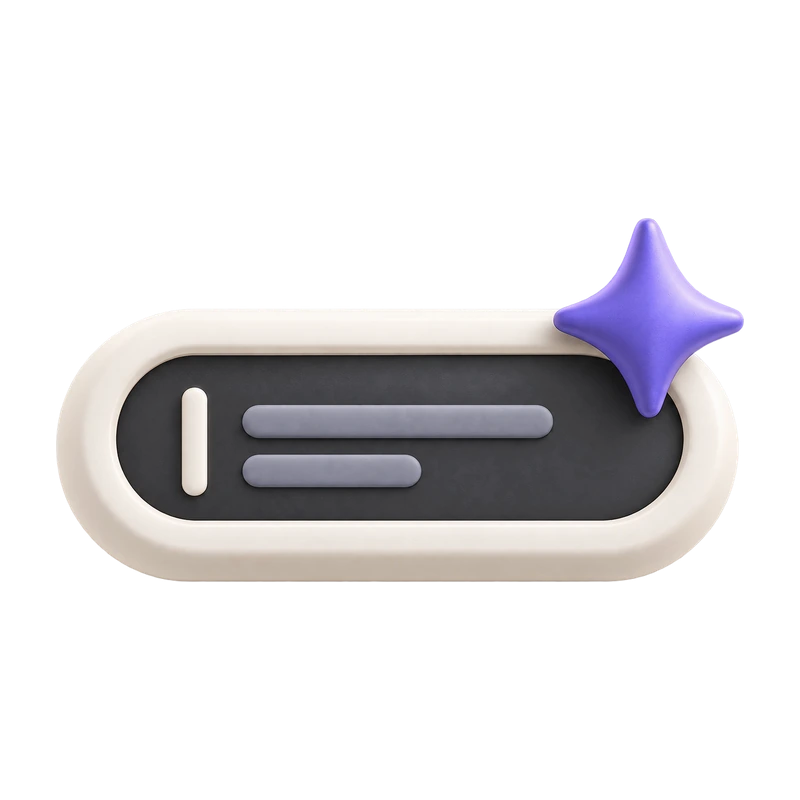
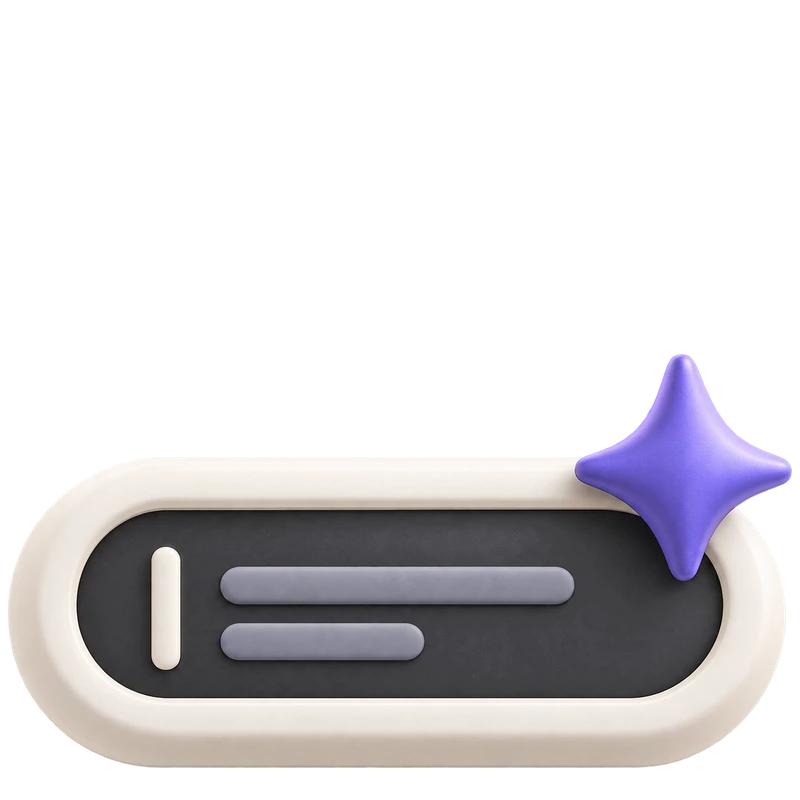
Landing: step pictures on one baseline and left edge, step-1 larger, lighter muted text in dark "How it works"
- make-site-art.py: the three step objects are placed against the canvas's bottom and left (same
  baseline, picture edge on the text edge); step-1, a thin bar, gets a 1% margin instead of 7%
  (width 688 -> 784 px of 800, about 30% more area). Regenerated step-1..3 (36 / 56 / 53 KB).
- Dark mode only, "How it works" section only: --ns-text-dim #b4aea1 -> #d3cdc1 (7.9:1 -> 11.0:1
  measured on glyph pixels). The shared token is the whole site's muted text, so it is not touched.

Claude-Session: https://claude.ai/code/session_01U9oHiSfJHWxDDyJSd8fLSk

diff --git a/command-center/tests/site-art.test.tsx b/command-center/tests/site-art.test.tsx
@@ -220,6 +220,11 @@ describe("the steps and the tool wall", () => {
   it("draws the pictures on the page's own surface in both themes: no dark box, no shadow, contained (never cropped), the tile 4:3 with the base surface and the panels' hairline; the icon tile keeps its dark gradient", () => {
     expect(css).toMatch(/\.nx-strip-pic \{ display: block; width: 100%; max-width: 260px; height: auto; aspect-ratio: 1; object-fit: contain; \}/);
     expect(css).toMatch(/\.nx-strip-step \{ align-content: start; \}/);
+    // The three step pictures share one baseline and one left edge (the converter puts each object against the canvas's bottom and left), and step-1, a thin bar, has a smaller margin.
+    const script = read("scripts/make-site-art.py");
+    expect(script).toMatch(/SLOT_MARGIN = \{"step-1": 0\.01\}/);
+    expect(script).toMatch(/STEP_LEFT = 0\.01/);
+    expect(script).toMatch(/STEP_BOTTOM = 0\.04/);
     expect(css).toMatch(/\.nx-strip-step:has\(\.nx-strip-pic\) \.nx-strip-pic \{ grid-column: 1; grid-row: 1 \/ span 3; width: 104px; \}/);
     expect(css).toMatch(/\.nx-wall-frame:has\(\.nx-wall-pic\) \{ aspect-ratio: 4 \/ 3; background: var\(--ns-ground\); border: 1px solid var\(--ns-rule\); \}/);
     expect(css).toMatch(/\.nx-wall-pic \{ display: block; width: 100%; height: 100%; object-fit: contain; \}/);
@@ -230,6 +235,21 @@ describe("the steps and the tool wall", () => {
     // The picture's drift is only where motion is allowed (reduced motion and the pause switch keep it still); so is the icon's.
     expect(css).toMatch(/html\[data-motion="paused"\] \.nx-wall-pic \{ transition: none; transform: none !important; \}/);
     expect(css).toMatch(/html\[data-motion="paused"\] \.nx-wall-icon \{ transition: none; transform: none !important; \}/);
+  });
+
+  it("lightens the muted text of \"How it works\" in dark mode only, in that section only (the shared token is the whole site's muted text, so no global value moves)", () => {
+    const g = read("app/globals.css");
+    expect(g).toContain("--ns-text-dim: #b4aea1;");
+    expect(css).toMatch(/@media \(prefers-color-scheme: dark\) \{ :root:not\(\[data-theme="light"\]\) \.nx-section#how \{ --ns-text-dim: #d3cdc1; \} \}/);
+    expect(css).toMatch(/:root\[data-theme="dark"\] \.nx-section#how \{ --ns-text-dim: #d3cdc1; \}/);
+    // 4.5:1 is the floor; the aim for this small text is about 7:1. It sits on the raised section's #1b1a17 (the ground is darker): the brighter of the two is the worst case.
+    const lum = (hex: string) => {
+      const c = [1, 3, 5].map((i) => parseInt(hex.slice(i, i + 2), 16) / 255).map((v) => (v <= 0.03928 ? v / 12.92 : ((v + 0.055) / 1.055) ** 2.4));
+      return 0.2126 * c[0] + 0.7152 * c[1] + 0.0722 * c[2];
+    };
+    const ratio = (a: string, b: string) => (Math.max(lum(a), lum(b)) + 0.05) / (Math.min(lum(a), lum(b)) + 0.05);
+    expect(ratio("#d3cdc1", "#1b1a17")).toBeGreaterThanOrEqual(7);
+    expect(ratio("#d3cdc1", "#1b1a17")).toBeGreaterThan(ratio("#b4aea1", "#1b1a17"));
   });
 
   it("has the fallback icon's colour at 4.5:1 or better on the tile's brightest point (the icon tile never changes with the theme)", () => {

diff --git a/command-center/components/site/site-next.css b/command-center/components/site/site-next.css
@@ -1383,3 +1383,8 @@ html:is([lang="ru"], [lang="uz"]) .nx-fcard[data-compact="true"] .nx-flow-rows >
   .nx-hero-copy { --ns-text: #fff; --ns-text-dim: rgba(255, 255, 255, 0.88); --ns-rule-strong: rgba(255, 255, 255, 0.4); --ns-console: rgba(8, 8, 8, 0.66); --st-act-ink: #b3acff; --ns-go: #5ee0a0; color: #fff; }
   .nx-hero-copy .nx-h1 { text-shadow: 0 1px 24px rgba(0, 0, 0, 0.35); }
 }
+
+/* ── "How it works" in dark mode: its small muted text (the steps' sentences, the wall's label, "No credits" and its note) a step lighter ── */
+/* --ns-text-dim is the whole site's muted text (#b4aea1, 7.9:1 on the dark surface); this section reads it at 15 to 16 px under 14 to 21 px headings, so it takes #d3cdc1 here (11.0:1 measured on the glyphs) and nothing else on the site moves. The three selectors are globals.css's own dark switches (the system's, and the explicit data-theme). */
+@media (prefers-color-scheme: dark) { :root:not([data-theme="light"]) .nx-section#how { --ns-text-dim: #d3cdc1; } }
+:root[data-theme="dark"] .nx-section#how { --ns-text-dim: #d3cdc1; }

diff --git a/command-center/scripts/make-site-art.py b/command-center/scripts/make-site-art.py
@@ -54,20 +54,28 @@ SLOT_ASPECT = {"step": 1.0, "tool": 4 / 3}
 ALPHA_FLOOR = 12
 # The object keeps this share of the canvas free on each side of its limiting axis, the same for all eleven, so they read as equally sized.
 MARGIN = 0.07
+# Per-slot margin where the shared one would leave a picture small: step-1 is a wide thin bar, so in a square it is limited by width alone and
+# gets 1% of the canvas on each side (its width goes from 86% to 98%, about 30% more area) instead of 7%.
+SLOT_MARGIN = {"step-1": 0.01}
+# The three step pictures share one baseline and one left edge: each object is placed against the canvas's bottom (4% up) and left (1% in), so on the
+# page the picture bottoms line up across the steps and the picture's left edge sits on the text edge. The tool tiles keep their objects centred.
+STEP_LEFT = 0.01
+STEP_BOTTOM = 0.04
 
 
-def make_slot(src: Image.Image, width: int, aspect: float) -> Image.Image:
-    """Cleans the alpha, trims the transparent border, and re-pads the object onto a transparent canvas of the slot's shape with the same margin."""
+def make_slot(src: Image.Image, width: int, aspect: float, margin: float = MARGIN, step: bool = False) -> Image.Image:
+    """Cleans the alpha, trims the transparent border, and re-pads the object onto a transparent canvas of the slot's shape with the same margin (centred for a tool, bottom-left for a step)."""
     px = np.array(src.convert("RGBA"))
     px[px[..., 3] < ALPHA_FLOOR] = 0
     ys, xs = np.where(px[..., 3] > 0)
     obj = Image.fromarray(px[ys.min() : ys.max() + 1, xs.min() : xs.max() + 1], "RGBA")
     cw, ch = width, round(width / aspect)
-    scale = min(cw * (1 - 2 * MARGIN) / obj.width, ch * (1 - 2 * MARGIN) / obj.height)
+    scale = min(cw * (1 - 2 * margin) / obj.width, ch * (1 - 2 * margin) / obj.height)
     # Pillow resizes RGBA premultiplied, so the edge carries no halo of the colour under the transparent pixels.
     obj = obj.resize((round(obj.width * scale), round(obj.height * scale)), Image.LANCZOS)
     canvas = Image.new("RGBA", (cw, ch), (0, 0, 0, 0))
-    canvas.paste(obj, ((cw - obj.width) // 2, (ch - obj.height) // 2))
+    at = (round(cw * STEP_LEFT), ch - round(ch * STEP_BOTTOM) - obj.height) if step else ((cw - obj.width) // 2, (ch - obj.height) // 2)
+    canvas.paste(obj, at)
     return canvas
 
 
@@ -90,7 +98,7 @@ def main() -> None:
             print(f"{name}: no {os.path.basename(src)} in ART, skipped")
             continue
         if name in SLOT_PNG:
-            im = make_slot(Image.open(src), width, SLOT_ASPECT[name.split("-")[0]])
+            im = make_slot(Image.open(src), width, SLOT_ASPECT[name.split("-")[0]], SLOT_MARGIN.get(name, MARGIN), step=name.startswith("step-"))
         else:
             im = Image.open(src).convert("RGB")
             if name in CROP:
